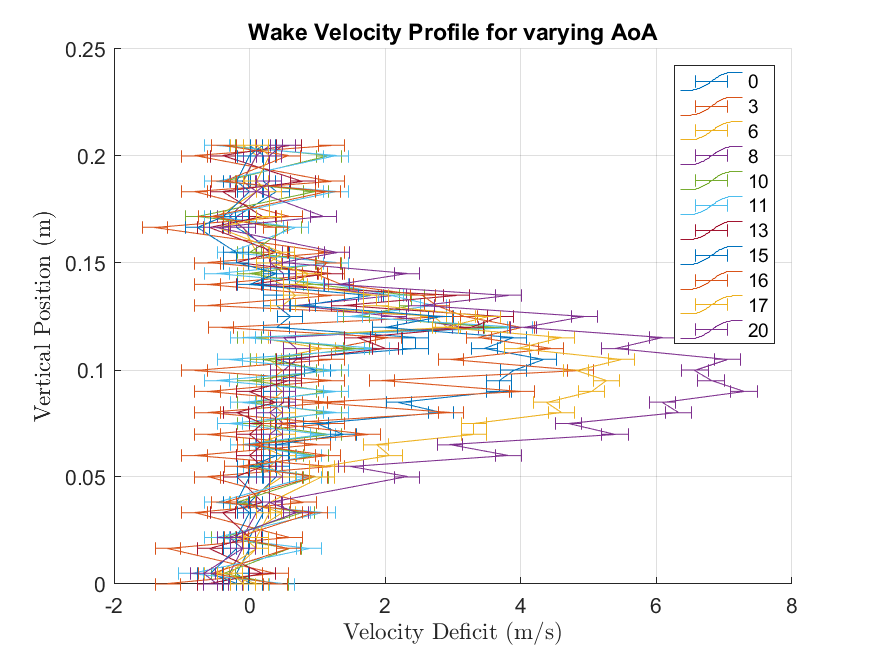
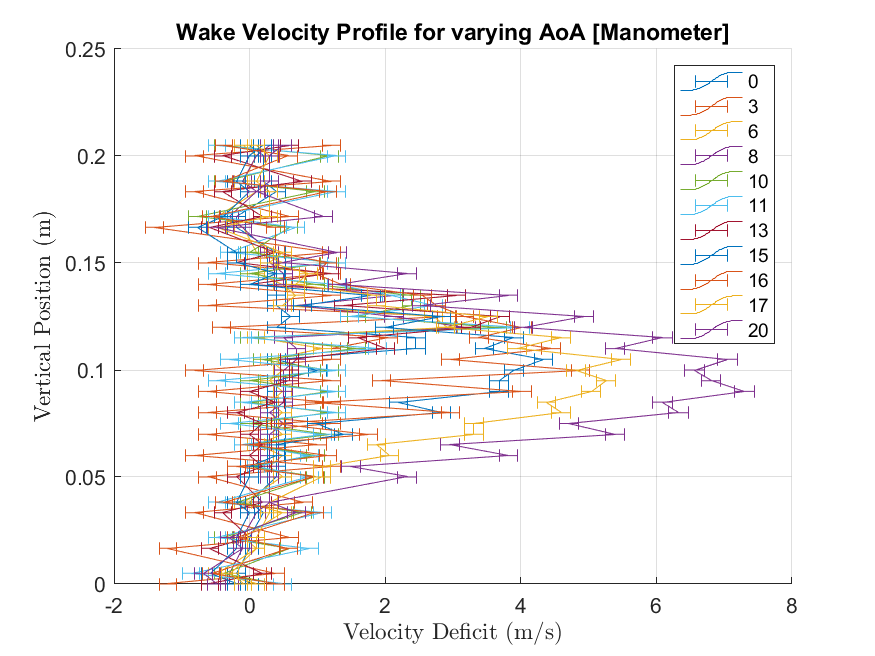
Redid wake and drag plots

diff --git a/Code/wake_analysis/wake_analysis_manometer.m b/Code/wake_analysis/wake_analysis_manometer.m
@@ -17,7 +17,7 @@ freestream = freestream(1, :);
 figure
 hold on
 
-title("Wake Velocity Profile for varying AoA")
+title("Wake Velocity Profile for varying AoA [Manometer]")
 xlabel("Velocity Deficit (m/s)", "interpreter", "latex")
 ylabel("Vertical Position (m)", "interpreter", "latex")
 
@@ -47,8 +47,8 @@ for i = 1:11
         (freestream(i) - velocities));
     
     % Calculate drag error
-    integrand_error_squared = velocities .* d_freestream(i) + ...
-        (freestream(i)-2.*velocities) .* d_velocities;
+    integrand_error_squared = abs(velocities .* d_freestream(i) + ...
+        (freestream(i)-2.*velocities) .* d_velocities);
     d_drag_force(i) = sqrt(sum(integrand_error_squared));
     
     q = 1/2 * RHO * freestream(i).^2;
@@ -59,7 +59,7 @@ for i = 1:11
 end
 legend
 grid
-saveas(gcf,'manometer_wake_velocities.png')
+saveas(gcf,'../../source_latex/figures/manometer_wake_velocities.png')
 
 figure
 errorbar(alphas, c_D, d_c_D, "DisplayName", "Experiment")
@@ -67,19 +67,19 @@ hold on
 plot(XFOIL_data(:, 1), XFOIL_data(:,3), "DisplayName", "XFOIL")
 xlabel("$\alpha$ (degrees)", "interpreter", "latex")
 ylabel("$c_D$ (dimensionless)", "interpreter", "latex")
-title("Comparison of XFOIL with Actual c_D variation")
+title("Comparison of XFOIL with Actual c_D variation [Manometer]")
 legend
 grid
-saveas(gcf,'manometer_cd.png')
+saveas(gcf,'../../source_latex/figures/manometer_cd.png')
 
 figure
 errorbar(alphas, drag_force, d_drag_force)
 xlabel("$\alpha$ (degrees)", "interpreter", "latex")
-ylabel("Drag Force per Unit Span (N/m)")
+ylabel("Drag Force per Unit Span (N/m) [Manometer]")
 title("Drag")
 grid
-saveas(gcf,'manomater_drag_force.png')
+saveas(gcf,'../../source_latex/figures/manometer_drag_force.png')
 
 % Export CSV
 writematrix(c_D, "cd_manometer.csv")
-writematrix(d_c_D, "cd_error_manometer.csv")
+writematrix(d_c_D, "../../source_latex/figures/cd_error_manometer.csv")

diff --git a/Code/wake_analysis/wake_analysis_scanivalve.m b/Code/wake_analysis/wake_analysis_scanivalve.m
@@ -19,7 +19,7 @@ freestream = freestream(1, :);
 figure
 hold on
 
-title("Wake Velocity Profile for varying AoA")
+title("Wake Velocity Profile for varying AoA [Scanivalve]")
 xlabel("Velocity Deficit (m/s)", "interpreter", "latex")
 ylabel("Vertical Position (m)", "interpreter", "latex")
 
@@ -45,7 +45,8 @@ for i = 1:11
     drag_force(i) = RHO * trapz(combined_locations,  velocities .* (freestream(i) - velocities));
     
     % Calculate drag error
-    integrand_error_squared = velocities .* d_freestream(i) + (freestream(i)-2.*velocities) .* d_velocities;
+    integrand_error_squared = abs(velocities .* d_freestream(i) +...
+                (freestream(i)-2.*velocities) .* d_velocities);
     d_drag_force(i) = sqrt(sum(integrand_error_squared));
     
     q = 1/2 * RHO * freestream(i).^2;
@@ -56,7 +57,7 @@ for i = 1:11
 end
 legend
 grid
-saveas(gcf,'scanivalve_wake_velocities.png')
+saveas(gcf,'../../source_latex/figures/scanivalve_wake_velocities.png')
 
 figure
 errorbar(alphas, c_D, d_c_D, "DisplayName", "Experiment")
@@ -64,18 +65,18 @@ hold on
 plot(XFOIL_data(:, 1), XFOIL_data(:,3), "DisplayName", "XFOIL")
 xlabel("$\alpha$ (degrees)", "interpreter", "latex")
 ylabel("$c_D$ (dimensionless)", "interpreter", "latex")
-title("Comparison of XFOIL with Actual c_D variation")
+title("Comparison of XFOIL with Actual c_D variation [Scanivalve]")
 legend
 grid
-saveas(gcf,'scanivalve_cd.png')
+saveas(gcf,'../../source_latex/figures/scanivalve_cd.png')
 
 figure
 errorbar(alphas, drag_force, d_drag_force)
 xlabel("$\alpha$ (degrees)", "interpreter", "latex")
-ylabel("Drag Force per Unit Span (N/m)")
+ylabel("Drag Force per Unit Span (N/m) [Scanivalve]")
 title("Drag Force")
 grid
-saveas(gcf,'scanivalve_drag_force.png')
+saveas(gcf,'../../source_latex/figures/scanivalve_drag_force.png')
 
 % Export CSV
 writematrix(c_D, "cd_scanivalve.csv")
